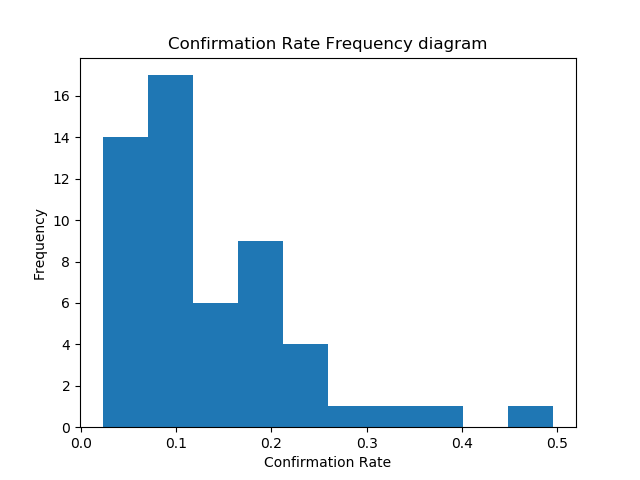
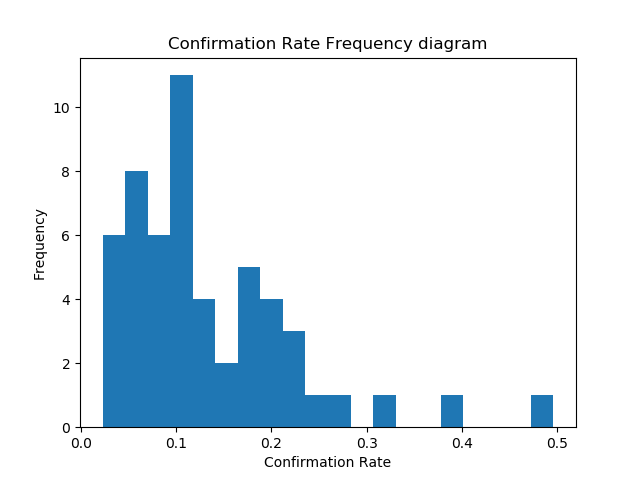
Adding frequency diagrams

diff --git a/Python/Statistics/LinearRegression.py b/Python/Statistics/LinearRegression.py
@@ -23,20 +23,21 @@ class LinearRegression(LinearRegressionBase):
         self.plotLine(self.y)
 
     def plotFrequency(self):
-        plt.hist(self.X)
+        plt.hist(self.X, bins=20)
         plt.title("Confirmation Rate Frequency diagram")
         plt.xlabel("Confirmation Rate")
         plt.ylabel("Frequency")
         plt.savefig('Figures/Frequency/ConfirmationRate.png')
         plt.show()
+        print("X frequency share: {}".format(sum(i <= 0.1 for i in self.X) / self.n))
 
-
-        plt.hist(self.Y)
+        plt.hist(self.X, bins=20)
         plt.title("Death Rate Frequency diagram")
         plt.xlabel("Death Rate")
         plt.ylabel("Frequency")
         plt.savefig('Figures/Frequency/DeathRate.png')
         plt.show()
+        print("Y frequency share: {}".format(sum(i <= 200 for i in self.Y) / self.n))
 
     def createXMatrix(self):
         newX = []

diff --git a/Python/main.py b/Python/main.py
@@ -20,7 +20,6 @@ lr.plotCredibility(lr.Interval(theta))
 lr.plotCredibility(lr.Interval(theta, 1), pred=True)
 
 
-
 lr = LinearRegression(us_data["Tot_Cases_1M_Pop"].values, us_data["ConfirmationRate"].values, "USAState", "Tot_Cases_1M_Pop", "ConfirmationRate")
 lr.plotCredibility(lr.Interval(theta))
 lr.plotCredibility(lr.Interval(theta, 1), pred=True)
